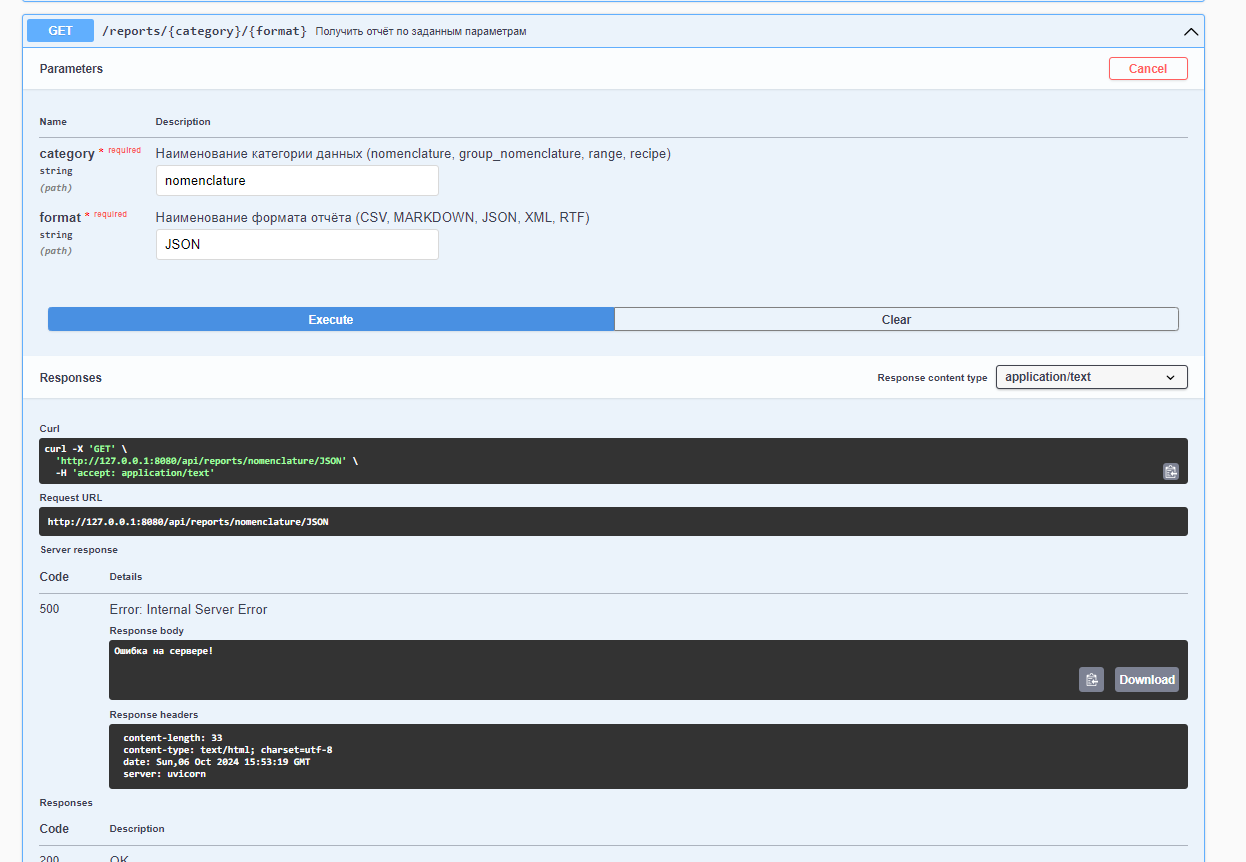
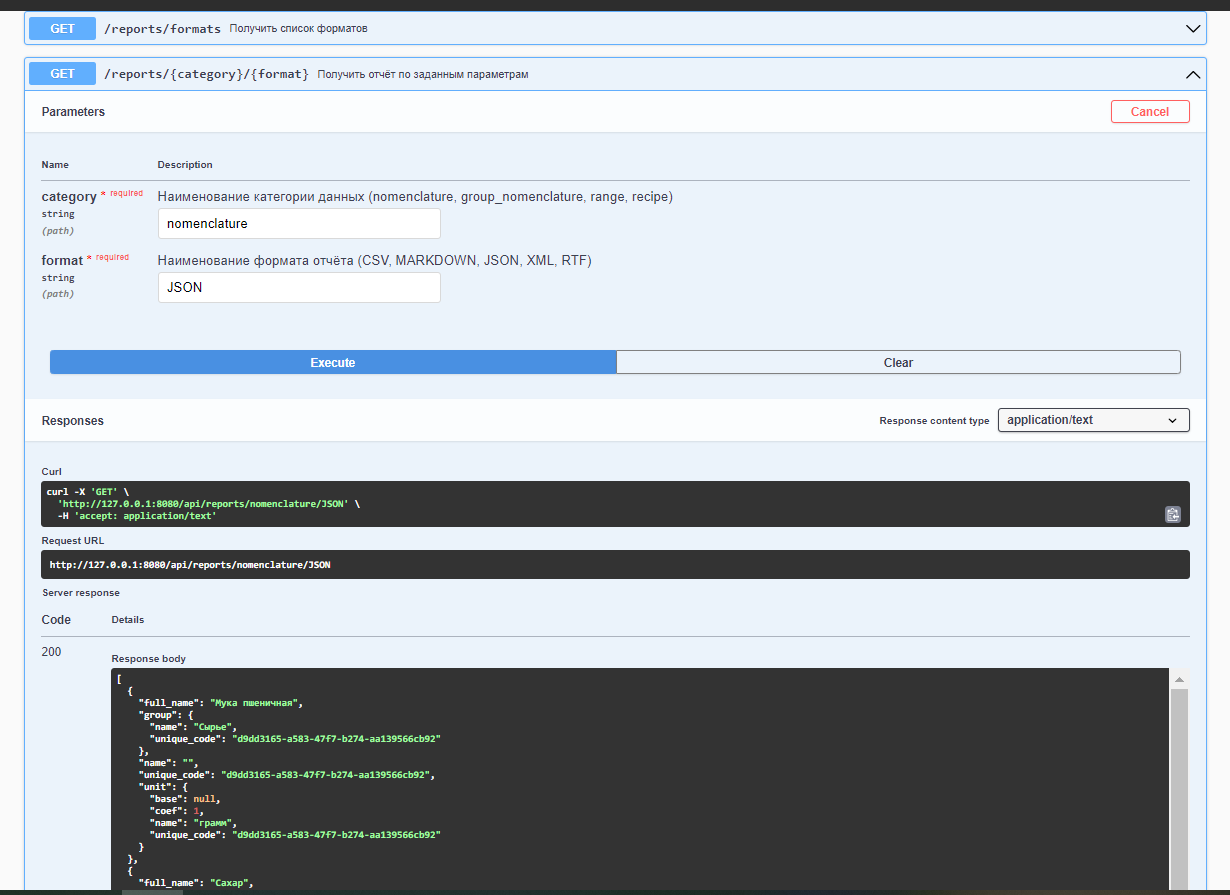
fix get_report in main

diff --git a/tests/test_reporting.py b/tests/test_reporting.py
@@ -14,9 +14,9 @@ from src.deserializers.json_deserializer import JsonDeserializer
 from src.models.ingredient import ingredient
 from src.models.range_model import range_model
 
-
 import unittest
 import os
+
 
 class test_reporting(unittest.TestCase):
     """Набор тестов для проверки работы формирование отчетов"""
@@ -58,6 +58,7 @@ class test_reporting(unittest.TestCase):
         report = json_report()
         report.create(self.repository.data[data_repository.nomenclature_key()])
         assert report.result != ""
+        assert report.result != None
 
     def test_xml_report_create_nomenclature(self):
         """Проверка работы отчета XML для номенклатуры"""
@@ -74,7 +75,9 @@ class test_reporting(unittest.TestCase):
     def test_report_factory_create(self):
         """Проверить работу фабрики для получения инстанса нужного отчета"""
         factory = report_factory(self.manager)
-        report = factory.create(format_reporting.CSV)
+        f = format_reporting.CSV
+        print(type(f))  # type(f) = <enum 'format_reporting'>
+        report = factory.create(f)
         assert report is not None
         assert isinstance(report, csv_report)
 
@@ -188,5 +191,3 @@ class test_reporting(unittest.TestCase):
                              f"Ингредиенты должны совпадать: {deserialized_ingredient.nomenclature.full_name} != {stored_ingredient.nomenclature.full_name}")
             self.assertEqual(deserialized_ingredient.value, stored_ingredient.value,
                              f"Значения ингредиентов должны совпадать: {deserialized_ingredient.value} != {stored_ingredient.value}")
-
-

diff --git a/main.py b/main.py
@@ -9,9 +9,11 @@ from src.reports.report_factory import report_factory
 app = connexion.FlaskApp(__name__)
 
 manager = settings_manager()
+manager.open("settings.json")
 repository = data_repository()
 service = start_service(repository, manager)
 service.create()
+factory = report_factory(manager)
 
 
 @app.route("/api/reports/formats", methods=["GET"])
@@ -25,13 +27,16 @@ def formats():
 
 @app.route("/api/reports/<category>/<format>", methods=["GET"])
 def get_report(category, format):
-    data = {
-        'nomenclature': data_repository.nomenclature_key(),
-        'group_nomenclature': data_repository.group_key(),
-        'range': data_repository.range_key(),
-        'recipe': data_repository.recipe_key()
-    }
+    # data = {
+    #     'nomenclature': data_repository.nomenclature_key(),
+    #     'group_nomenclature': data_repository.group_key(),
+    #     'range': data_repository.range_key(),
+    #     'recipe': data_repository.recipe_key()
+    # }
 
+    data_methods = [method for method in dir(data_repository) if
+                    callable(getattr(data_repository, method)) and method.endswith('_key')]
+    data = {method.replace('_key', ''): getattr(data_repository, method)() for method in data_methods}
 
     if category not in data:
         return Response(f"Указанная категория '{category}' отсутствует!", 400)
@@ -42,7 +47,6 @@ def get_report(category, format):
         return Response("Указанный формат отчёта отсутствует!", 400)
 
     try:
-        factory = report_factory(manager)
         report = factory.create(report_format)
         report.create(repository.data[data[category]])
     except Exception as ex:

diff --git a/src/reports/report_factory.py b/src/reports/report_factory.py
@@ -1,7 +1,7 @@
 from src.core.abstract_logic import abstract_logic
 from src.core.abstract_report import abstract_report
 from src.core.format_reporting import format_reporting
-from src.core.validator import validator, argument_exception, operation_exception
+from src.core.validator import validator, argument_exception
 from src.settings_manager import settings_manager
 from src.models.settings_model import settings
 
@@ -19,6 +19,10 @@ class report_factory(abstract_logic):
     def create(self, format: format_reporting) -> abstract_report:
         validator.validate(format, format_reporting)
 
+        if not isinstance(format, format_reporting):
+            raise argument_exception(
+                f"Неверный формат отчета: {format}. Ожидается один из: {', '.join([f.name for f in format_reporting])}")
+
         if self.__reports is None:
             self.set_exception(argument_exception("Настройки отчетов не были загружены."))
             return None
@@ -31,18 +35,11 @@ class report_factory(abstract_logic):
         report_class_name = self.__reports[format_str]
         report_class = getattr(__import__(f'src.reports.{report_class_name}', fromlist=[report_class_name]),
                                report_class_name)
-
         return report_class()
-
-        # report = self.__reports[format]
-        # return report()
 
     def create_default(self) -> abstract_report:
         format = self.__settings.default_format
         return self.create(format)
 
-
     def set_exception(self, ex: Exception):
         self._inner_set_exception(ex)
-
-

diff --git a/src/settings_manager.py b/src/settings_manager.py
@@ -7,7 +7,7 @@ import os
 
 
 class settings_manager(abstract_logic):
-    __file_name = "../settings1.json"
+    __file_name = "../settings.json"
     # __settings: settings = settings()
     __settings: settings = None
 
@@ -54,6 +54,7 @@ class settings_manager(abstract_logic):
         data = settings()
         data.inn = "380000000038"
         data.organization_name = "Рога и копыта (default)"
+
         return data
 
     def set_exception(self, ex: Exception):

diff --git a/src/models/settings_model.py b/src/models/settings_model.py
@@ -99,7 +99,7 @@ class settings:
         return self.__report_settings
 
     @report_settings.setter
-    def report_settings(self, value: str):
+    def report_settings(self, value: dict):
         self.__report_settings = value
 
     @property
